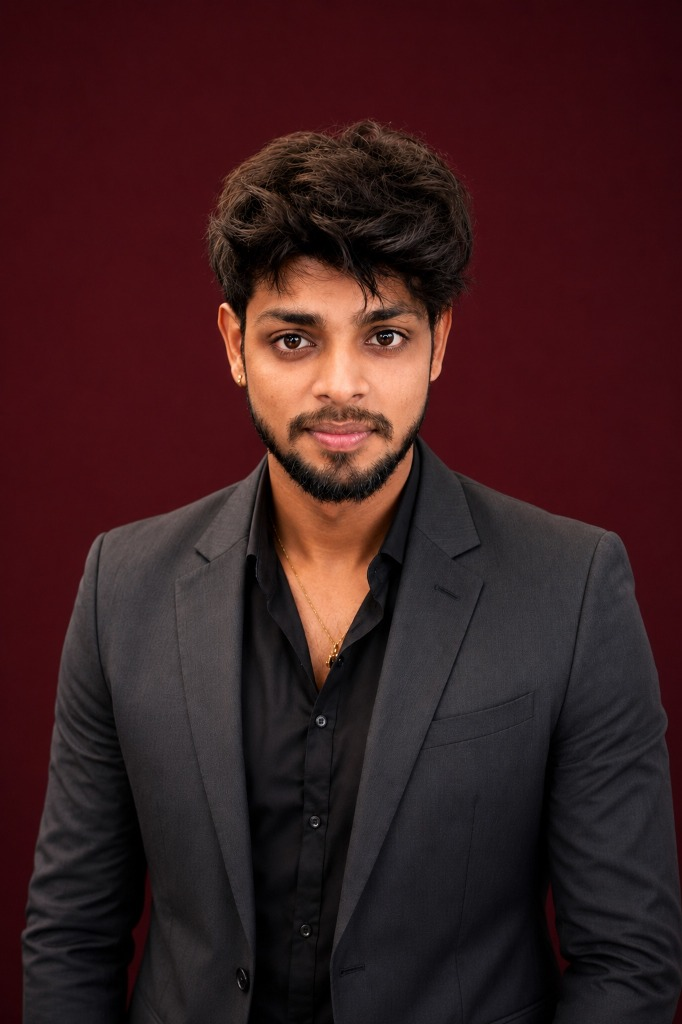
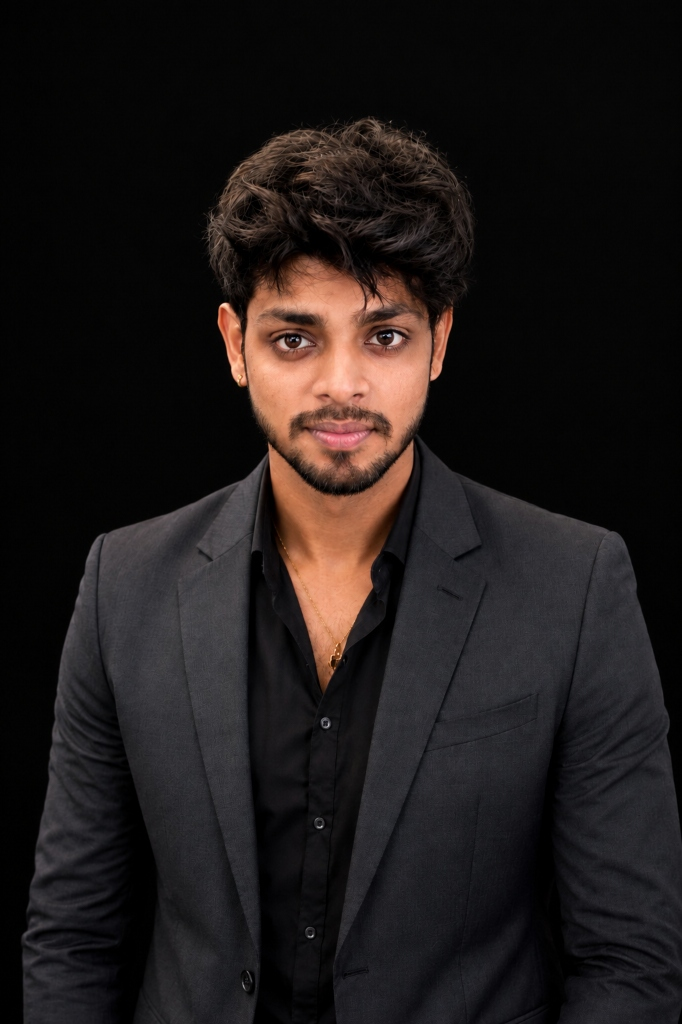
feat: update portrait photo with black background studio portrait

diff --git a/index.html b/index.html
@@ -232,7 +232,7 @@
             <div class="profile-card">
               <!-- Clean, Unobstructed Portrait Photo -->
               <div class="profile-img-container">
-                <img src="assets/profile.jpg" alt="Vivek Vishwakarma - Senior DevSecOps Engineer" class="profile-img" id="profileImage">
+                <img src="assets/profile.jpg?v=2" alt="Vivek Vishwakarma - Senior DevSecOps Engineer" class="profile-img" id="profileImage">
                 <div class="profile-gradient-overlay"></div>
               </div>
               
